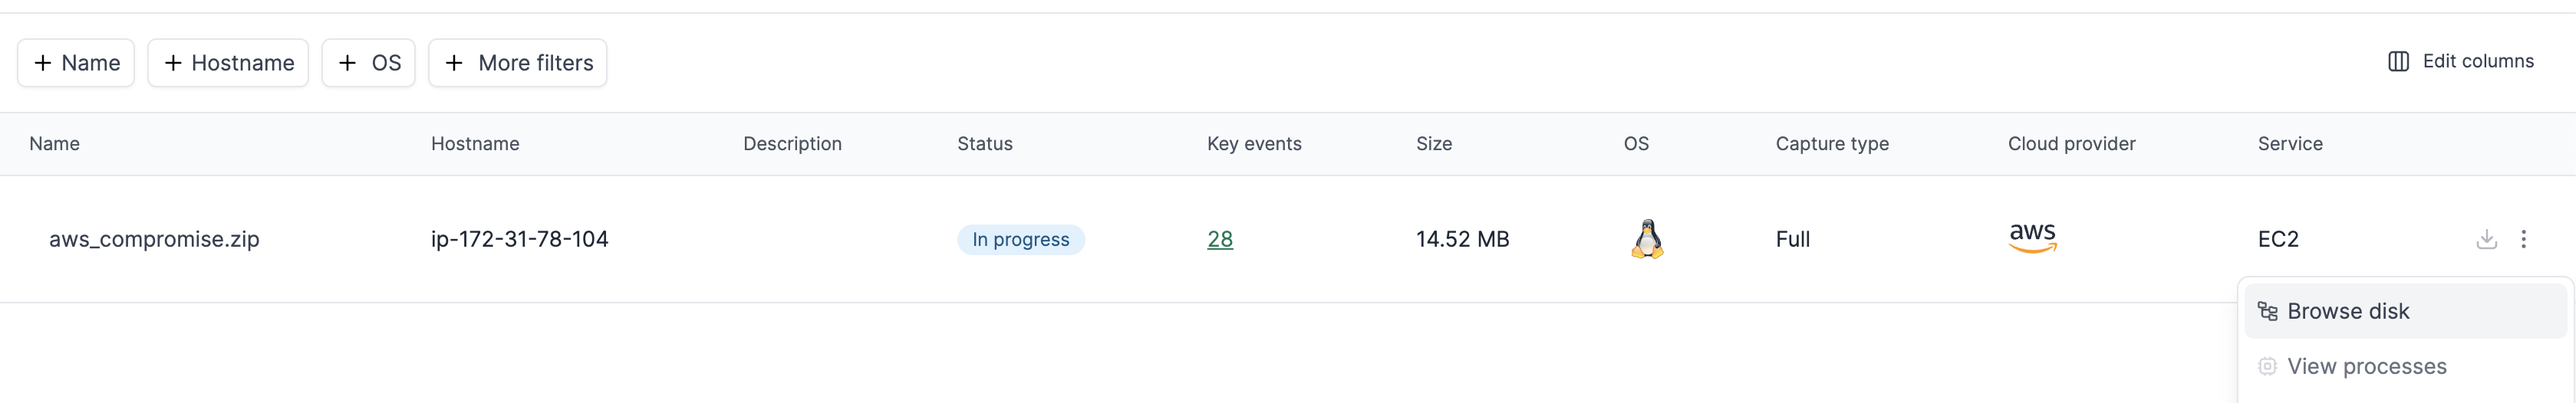
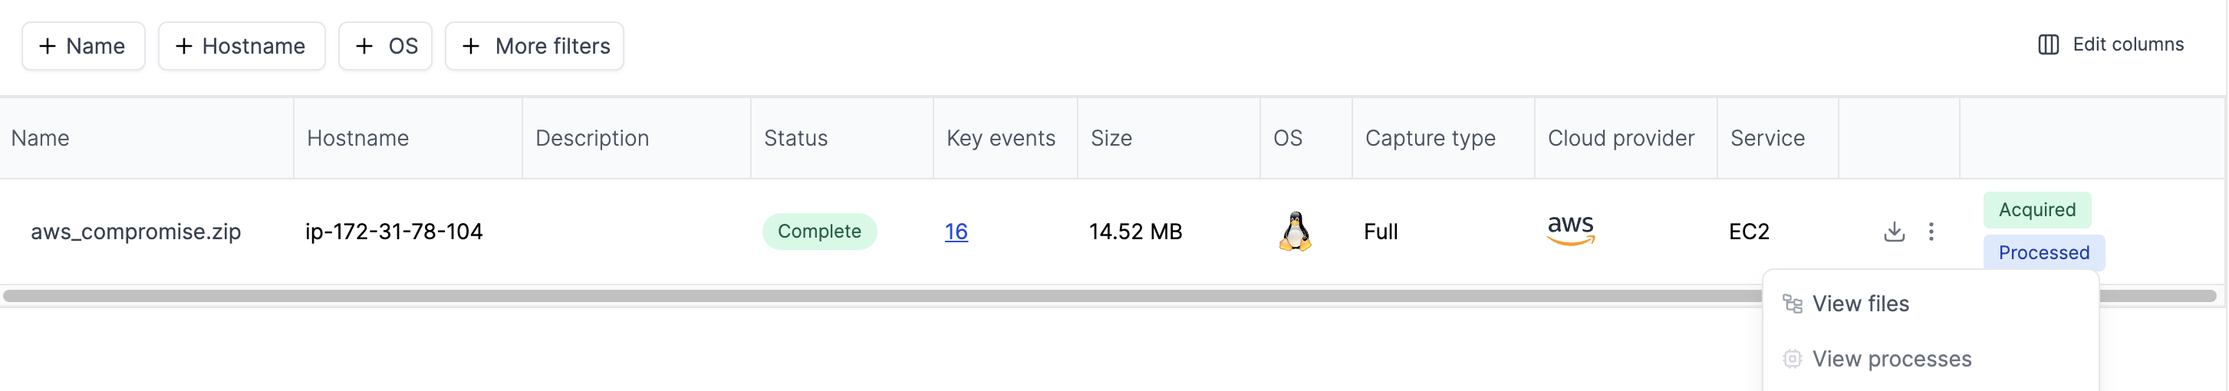
rename browse disk to files

diff --git a/docs/cado/investigate/browse-disk.md b/docs/cado/investigate/browse-disk.md
@@ -1,21 +1,21 @@
 ---
-title: Browse Disk
+title: Files
 hide_title: true
 sidebar_position: 4
 ---
 
-# How to Browse the Disk
+# How to View Files
 
-You can explore the disk by either:
+You can explore the file system by either:
 
-1. Selecting the **"Browse Disk"** option from the **Evidence** tab.
+1. Selecting the **"Files"** option from the **Evidence** tab.
 
-   ![Browse Disk](/img/evidence-disk.png)
+   ![Files](/img/evidence-disk.png)
 
 2. Selecting a specific path while viewing a file.
 
-   ![Browse Disk](/img/file-disk.png)
+   ![Files](/img/file-disk.png)
 
-Once you select the option, you'll be able to navigate through the disk and choose specific files.
+Once you select the option, you'll be able to navigate through the file system and choose specific files.
 
-   ![Browse Disk](/img/tutorial8.png)
+   ![Files](/img/tutorial8.png)

diff --git a/docs/cado/discovery-import/aws/aws-lambda.md b/docs/cado/discovery-import/aws/aws-lambda.md
@@ -18,7 +18,7 @@ The Cado platform allows you to acquire AWS Lambda functions, which are serverle
 
 ## Output
 
-Once processing is complete, the Lambda function’s events will be added to the timeline. You can view the Lambda function’s code in the **Browse Disk** tab.
+Once processing is complete, the Lambda function’s events will be added to the timeline. You can view the Lambda function’s code in the **Files** tab.
 
 ![Lambda Function Code](/img/aws-lambda-code.png)
 
